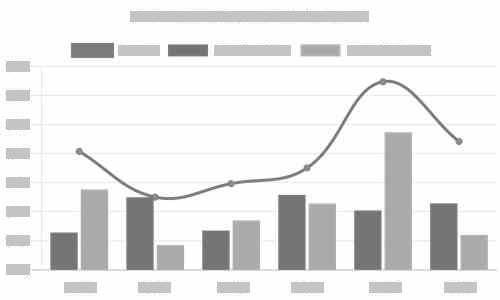
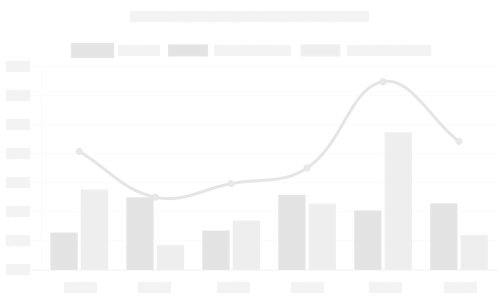
Add loading and default images for charts

diff --git a/assets/js/profile.js b/assets/js/profile.js
@@ -82,14 +82,13 @@ $(document).ready(function() {
   // CHART.JS
   // =======================================================
   // Lazy load via Intersection Observer if browser allows
-  const financials = orgFinancialStats; // TODO pulling from a global. Has to be a better way.
+  // Jekyll sets a global variable orgFinancialsStats in profile.html
   const orgCurrentTaxYear = document.querySelector('h1.org-name').dataset.taxYear;
   const chartWrapperOverview = document.getElementById('financial-overview').getElementsByClassName('chart-wrapper')[0];
-  // TODO Only need to worry about if financials.length > 1
   const chartWrapperTrends = document.getElementById('financial-trends').getElementsByClassName('chart-wrapper')[0];
 
   if (!isMobile.matches && 'IntersectionObserver' in window) {
-    // TODO Log in GA? Enabled Intersection Observer
+    gaChartsEvents('Charts baseline');
     createChartsObserver();
   }
 
@@ -100,11 +99,13 @@ $(document).ready(function() {
       rootMargin: '0px 0px',
       threshold: 0.01,
     };
+    // Initiate observer using Financial Overview section as anchor
     observer = new IntersectionObserver(enableCharts, config);
     observer.observe(anchor);
-    // Initiate preloader
+    // Initiate preloaders / spinners
+    // Only need to show Trends chart if more than one tax year is available
     showLoader(chartWrapperOverview);
-    if (financials.length > 1) {
+    if (orgFinancialStats.length > 1) {
       showLoader(chartWrapperTrends);
     }
   }
@@ -112,7 +113,8 @@ $(document).ready(function() {
   function enableCharts(entries, observer) {
     entries.forEach((entry) => {
       if (entry.isIntersecting) {
-        // TODO Log in GA? Reached chart elements
+        gaChartsEvents('Visitor reached financial divs');
+        // Run the function that fetches Chart.js and loads it into the DOM
         loadCharts();
         observer.unobserve(entry.target);
       }
@@ -120,12 +122,13 @@ $(document).ready(function() {
   }
 
   function loadCharts() {
+    gaChartsEvents('Loading ChartJS');
     const chartJS = document.createElement('script');
     chartJS.type = 'text/javascript';
     chartJS.src = 'https://cdnjs.cloudflare.com/ajax/libs/Chart.js/2.9.3/Chart.min.js';
+    // Make Chart.js script available on client
     document.body.appendChild(chartJS);
-    // TODO Log in GA? Charts loaded successfully
-    // setTimeout(createCharts(chartJS), 3000); // TODO Delete - currently using for local testing
+    // Now that Chart.js script is available, create the charts
     createCharts(chartJS);
   }
 
@@ -134,22 +137,18 @@ $(document).ready(function() {
     const chartsColorSecondary = '#c54e00';
     const chartsColorTertiary = '#00bfa5';
 
-    const assets = financials.map(value => value.assets).reverse();
-    const distributions = financials.map(value => value.distributions).reverse();
-    const contributions = financials.map(value => value.contributions).reverse();
-    const years = financials.map(value => value.tax_year).reverse();
-    const year1 = financials[0];
+    const assets = orgFinancialStats.map(value => value.assets).reverse();
+    const distributions = orgFinancialStats.map(value => value.distributions).reverse();
+    const contributions = orgFinancialStats.map(value => value.contributions).reverse();
+    const years = orgFinancialStats.map(value => value.tax_year).reverse();
+    const year1 = orgFinancialStats[0];
 
     const ctx = document.getElementById('chart-overview').getContext('2d');
-    // TODO only needed if array size > 1
-    const ctxTrendsRoot = document.getElementById('chart-trends');
-    let ctxTrends;
-    if (ctxTrendsRoot) {
-      ctxTrends = ctxTrendsRoot.getContext('2d');
-    }
+    const ctxTrends = document.getElementById('chart-trends').getContext('2d');
     
 
     init.onload = function() {
+      gaChartsEvents('ChartsJS successfully loaded');
       const chartsFinancialOverview = new Chart(ctx, { /* eslint-disable-line no-unused-vars */
         type: 'horizontalBar',
         responsive: true,
@@ -204,16 +203,18 @@ $(document).ready(function() {
           },
           animation: {
             onProgress: function(animation) {
-              // TODO This feel like a hat
-              // Does ChartJS provide a better event?
               if (animation.currentStep === 1) {
                 hideLoader(chartWrapperOverview);
               }
             },
+            onComplete: function() {
+              gaChartsEvents('Charts successfully drawn');
+            },
           },
         },
       });
-      if (ctxTrendsRoot) {
+      // Only need to show Trends chart if more than one tax year is available
+      if (orgFinancialStats.length > 1) {
         const chartsFinancialTrends = new Chart(ctxTrends, { /* eslint-disable-line no-unused-vars */
           type: 'bar',
           responsive: true,
@@ -275,8 +276,6 @@ $(document).ready(function() {
             },
             animation: {
               onProgress: function(animation) {
-                // TODO This feel like a hat
-                // Does ChartJS provide a better event?
                 if (animation.currentStep === 1) {
                   hideLoader(chartWrapperTrends);
                 }
@@ -286,6 +285,16 @@ $(document).ready(function() {
         });
       }
     };
+  }
+
+  function showLoader(el) {
+    el.classList.remove('default');
+    el.classList.add('loading');
+  }
+
+  function hideLoader(el) {
+    el.classList.remove('loading');
+    el.classList.add('loaded');
   }
 
   function numberHuman(num, decimals) {
@@ -301,14 +310,18 @@ $(document).ready(function() {
     return e;
   }
 
-  function showLoader(el) {
-    el.classList.add('loading');
-    el.getElementsByClassName('preloader-wrapper')[0].classList.add('active');
-  }
-
-  function hideLoader(el) {
-    el.classList.remove('loading');
-    el.getElementsByClassName('preloader-wrapper')[0].classList.remove('active');
+  function gaChartsEvents(label) {
+    let gaCheck = window[window['GoogleAnalyticsObject'] || 'ga']; // eslint-disable-line dot-notation
+    if (typeof gaCheck === 'function') {
+      ga('send', 'event', {
+        'eventCategory': 'Profile Events',
+        'eventAction': 'Charts Loading Sequence',
+        'eventLabel': label,
+      });
+    }
+    // Charts needed
+    // Charts downloaded
+    // Charts embedded 
   }
 
   // NAVBAR

diff --git a/_layouts/profile.html b/_layouts/profile.html
@@ -693,17 +693,31 @@ donorbox_popup: false
                           </div>                      
                         </div>
                         <hr>
-                        <div class="chart-wrapper valign-wrapper">
-                          <div class="preloader-wrapper big">
-                            <div class="spinner-layer">
-                              <div class="circle-clipper left">
-                                <div class="circle"></div>
+                        <div class="chart-wrapper default">
+                          <div class="chart-default">
+                            <div class="row row-tight">
+                              <div class="col s12">
+                                <div class="card white z-depth-4">
+                                  <div class="card-content">
+                                      Charts will appear if your browser supports them.
+                                  </div>
+                                </div>
                               </div>
-                              <div class="gap-patch">
-                                <div class="circle"></div>
-                              </div>
-                              <div class="circle-clipper right">
-                                <div class="circle"></div>
+                            </div>
+                          </div>
+                          <div class="chart-loader center-align">
+                            <h4 class="preloader-text">Loading...</h4>
+                            <div class="preloader-wrapper big active">
+                              <div class="spinner-layer">
+                                <div class="circle-clipper left">
+                                  <div class="circle"></div>
+                                </div>
+                                <div class="gap-patch">
+                                  <div class="circle"></div>
+                                </div>
+                                <div class="circle-clipper right">
+                                  <div class="circle"></div>
+                                </div>
                               </div>
                             </div>
                           </div>
@@ -739,28 +753,14 @@ donorbox_popup: false
                           </div>                      
                         </div>
                         <hr>
-                        {% if page.financial_stats.size > 1 %}
-                        <div class="chart-wrapper valign-wrapper">
-                          <div class="preloader-wrapper big">
-                            <div class="spinner-layer">
-                              <div class="circle-clipper left">
-                                <div class="circle"></div>
-                              </div>
-                              <div class="gap-patch">
-                                <div class="circle"></div>
-                              </div>
-                              <div class="circle-clipper right">
-                                <div class="circle"></div>
-                              </div>
-                            </div>
-                          </div>
-                          <canvas id="chart-trends" width="500" height="300"></canvas>
-                        </div>
-                        {% else %}
-                        <div id="blank-state-financials" class="row row-tight valign-wrapper">
-                          <div class="col s12 l8 offset-l2">
+                        <!-- Replace Jekyll if statement with default messaging? -->
+                        <div class="chart-wrapper default">
+                          <div class="chart-default">
                             <div class="card white z-depth-4">
                               <div class="card-content">
+                              {%- if page.financial_stats.size > 1 -%}
+                                Charts will appear if your browser supports them
+                              {%- else -%}
                                 <div class="row row-tight valign-wrapper">
                                   <div class="col s2">
                                     <i class="material-icons material-icons-square blue-grey white-text">timeline</i>
@@ -769,11 +769,28 @@ donorbox_popup: false
                                     Trends will appear as more e-filings become available
                                   </div>
                                 </div>
+                              {% endif %}
                               </div>
                             </div>
                           </div>
+                          <div class="chart-loader center-align">
+                            <h4 class="preloader-text">Loading...</h4>
+                            <div class="preloader-wrapper big active">
+                              <div class="spinner-layer">
+                                <div class="circle-clipper left">
+                                  <div class="circle"></div>
+                                </div>
+                                <div class="gap-patch">
+                                  <div class="circle"></div>
+                                </div>
+                                <div class="circle-clipper right">
+                                  <div class="circle"></div>
+                                </div>
+                              </div>
+                            </div>
+                          </div>
+                          <canvas id="chart-trends" width="500" height="300"></canvas>
                         </div>
-                        {% endif %}
                       </div>
                     </div>
                   </div>

diff --git a/assets/css/main.scss b/assets/css/main.scss
@@ -185,6 +185,9 @@ ul.striped > li:nth-child(odd) {
 i.material-icons-rotate-180 {
 	transform: rotateX(180deg);
 }
+i.material-icons-rotate-90 {
+	transform: rotate(90deg);
+}
 // Icon background
 i.material-icons-square {
 	padding: 4px;
@@ -1356,47 +1359,54 @@ Mimic Algolia them - only the good parts
 		canvas {
 			width: 100%;
 		}
+
 		.chart-wrapper {
 			height: 300px;
-			&.loading {
-				&:before {
-					content:"";
-					position:absolute;
-					width:500px;
-					height:300px;
-					opacity:0.2;
-					background-image: url({{site.baseurl}}/assets/img/blank-chart.jpg);
-					background-size: contain;
-					background-repeat: no-repeat;
-					background-position: center;
-				}
-				canvas {
-					display: none;
-				}
+
+			.chart-loader .preloader-wrapper {
+				margin: 0 auto;
 			}
-			.preloader-wrapper {
-				margin: auto;
+			
+			.chart-default, .chart-loader {
+				display: flex;
+				align-items: center;
+				justify-content: center;
+				flex-direction: column;
+				content:"";
+				// position:absolute;
+				width: 100%;
+				height: 100%;
+				max-width:500px;
+				max-height:300px;
+				background-image: url({{site.baseurl}}/assets/img/blank-chart.jpg);
+				background-size: contain;
+				background-repeat: no-repeat;
+				background-position: center;
+			}
+
+			.chart-default { display: flex; }
+			.chart-loader { display: none; }
+			canvas { display: none; }
+
+			&.loading {
+				.chart-default { display: none; }
+				.chart-loader { display: flex; }
+				canvas { display: none; }
+			}
+
+			&.loaded {
+				.chart-default { display: none; }
+				.chart-loader { display: none; }
+				canvas { display: block; }
 			}
 		}
 	}
-	#financial-trends .chart-wrapper.loading:before {
-		background-image: url({{site.baseurl}}/assets/img/blank-chart-trends.jpg);
+	#financial-trends .chart-wrapper {
+		.chart-default, .chart-loader {
+			background-image: url({{site.baseurl}}/assets/img/blank-chart-trends.jpg);
+		}
 	}
 
-	#blank-state-financials {
-		height: 300px;
-		&:before {
-			content:"";
-			position:absolute;
-			width:500px;
-			height:300px;
-			opacity:0.2;
-			background-image: url({{site.baseurl}}/assets/img/blank-chart-trends.jpg);
-			background-size: contain;
-			background-repeat: no-repeat;
-			background-position: center;
-		}
-	}
 	#part-v {
 		.collapsible, .collapsible-header, .collapsible-body {
 			border: 0;

diff --git a/assets/js/ga-events.js b/assets/js/ga-events.js
@@ -68,6 +68,9 @@ $(document).ready(function() {
     });
   });
 
+  // Charts
+  // see profile.js
+
   // Bottom CTAs: Share and feedback buttons
   $('#profile-share a, #community a, #feedback a, #application-info a, #search-links a, #coffee-bottom-cta a').on('click', function() {
     ga('send', 'event', {
@@ -87,11 +90,10 @@ $(document).ready(function() {
   });
 
   // Remove UTM parameters
-  const win = window;
   ga('send', 'pageview', { 'hitCallback': removeUtms() });
   
   function removeUtms() {
-    const location = win.location;
+    const location = window.location;
     if (location.search.indexOf('utm_') !== -1 && history.replaceState) {
       history.replaceState({}, '', window.location.toString().replace(/(&|\?)utm([_a-z0-9=]+)/g, ''));
     }
